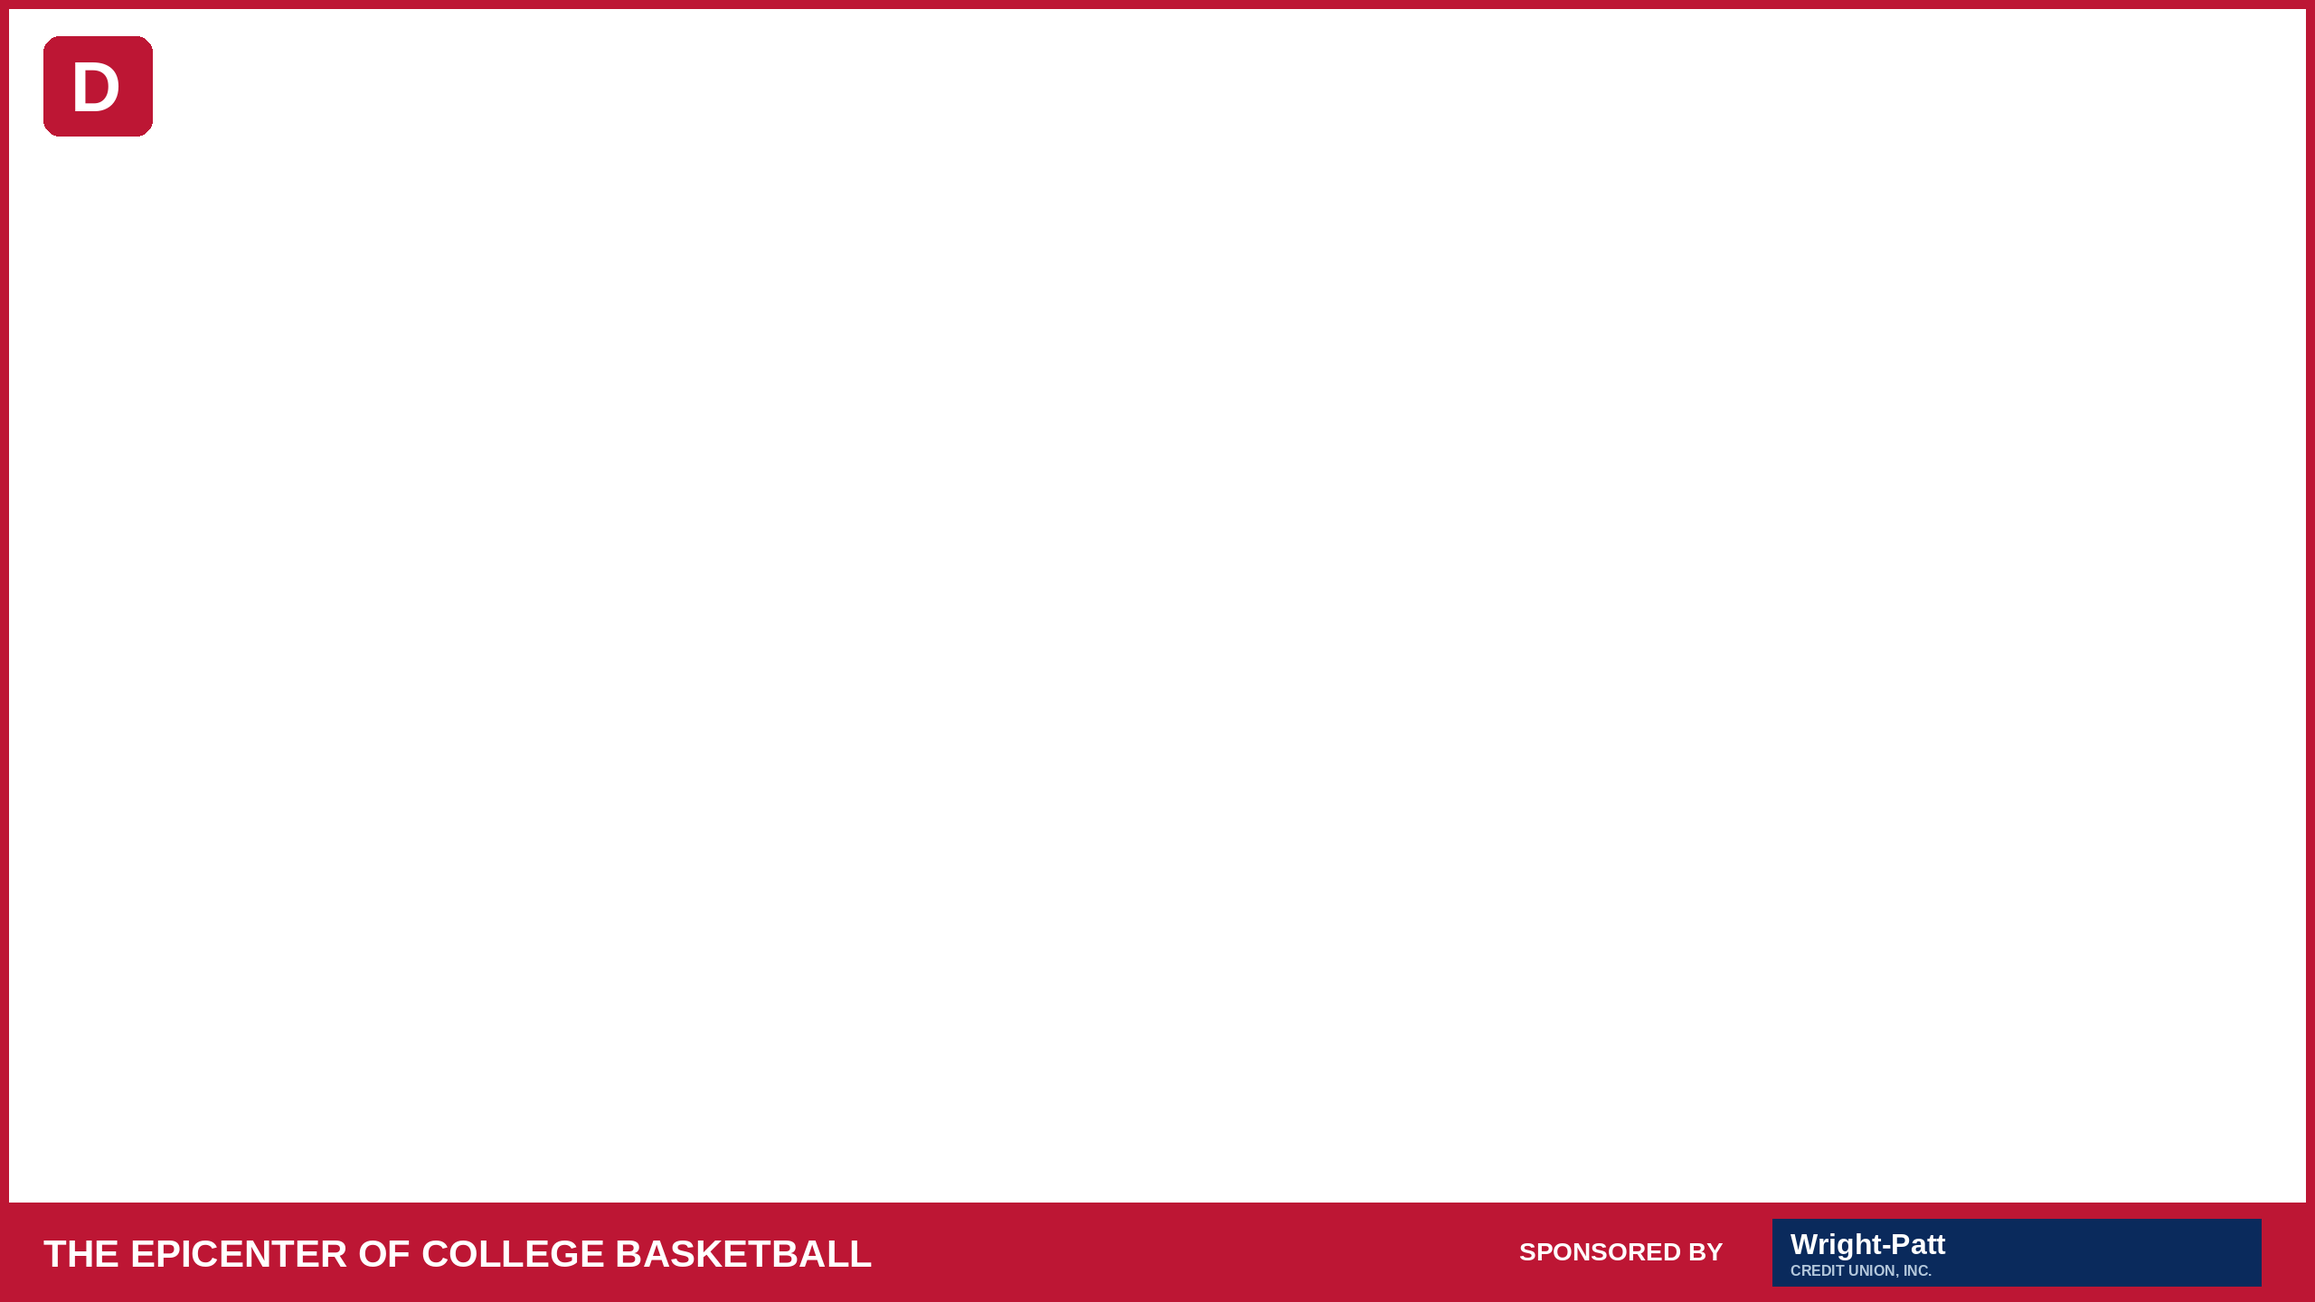
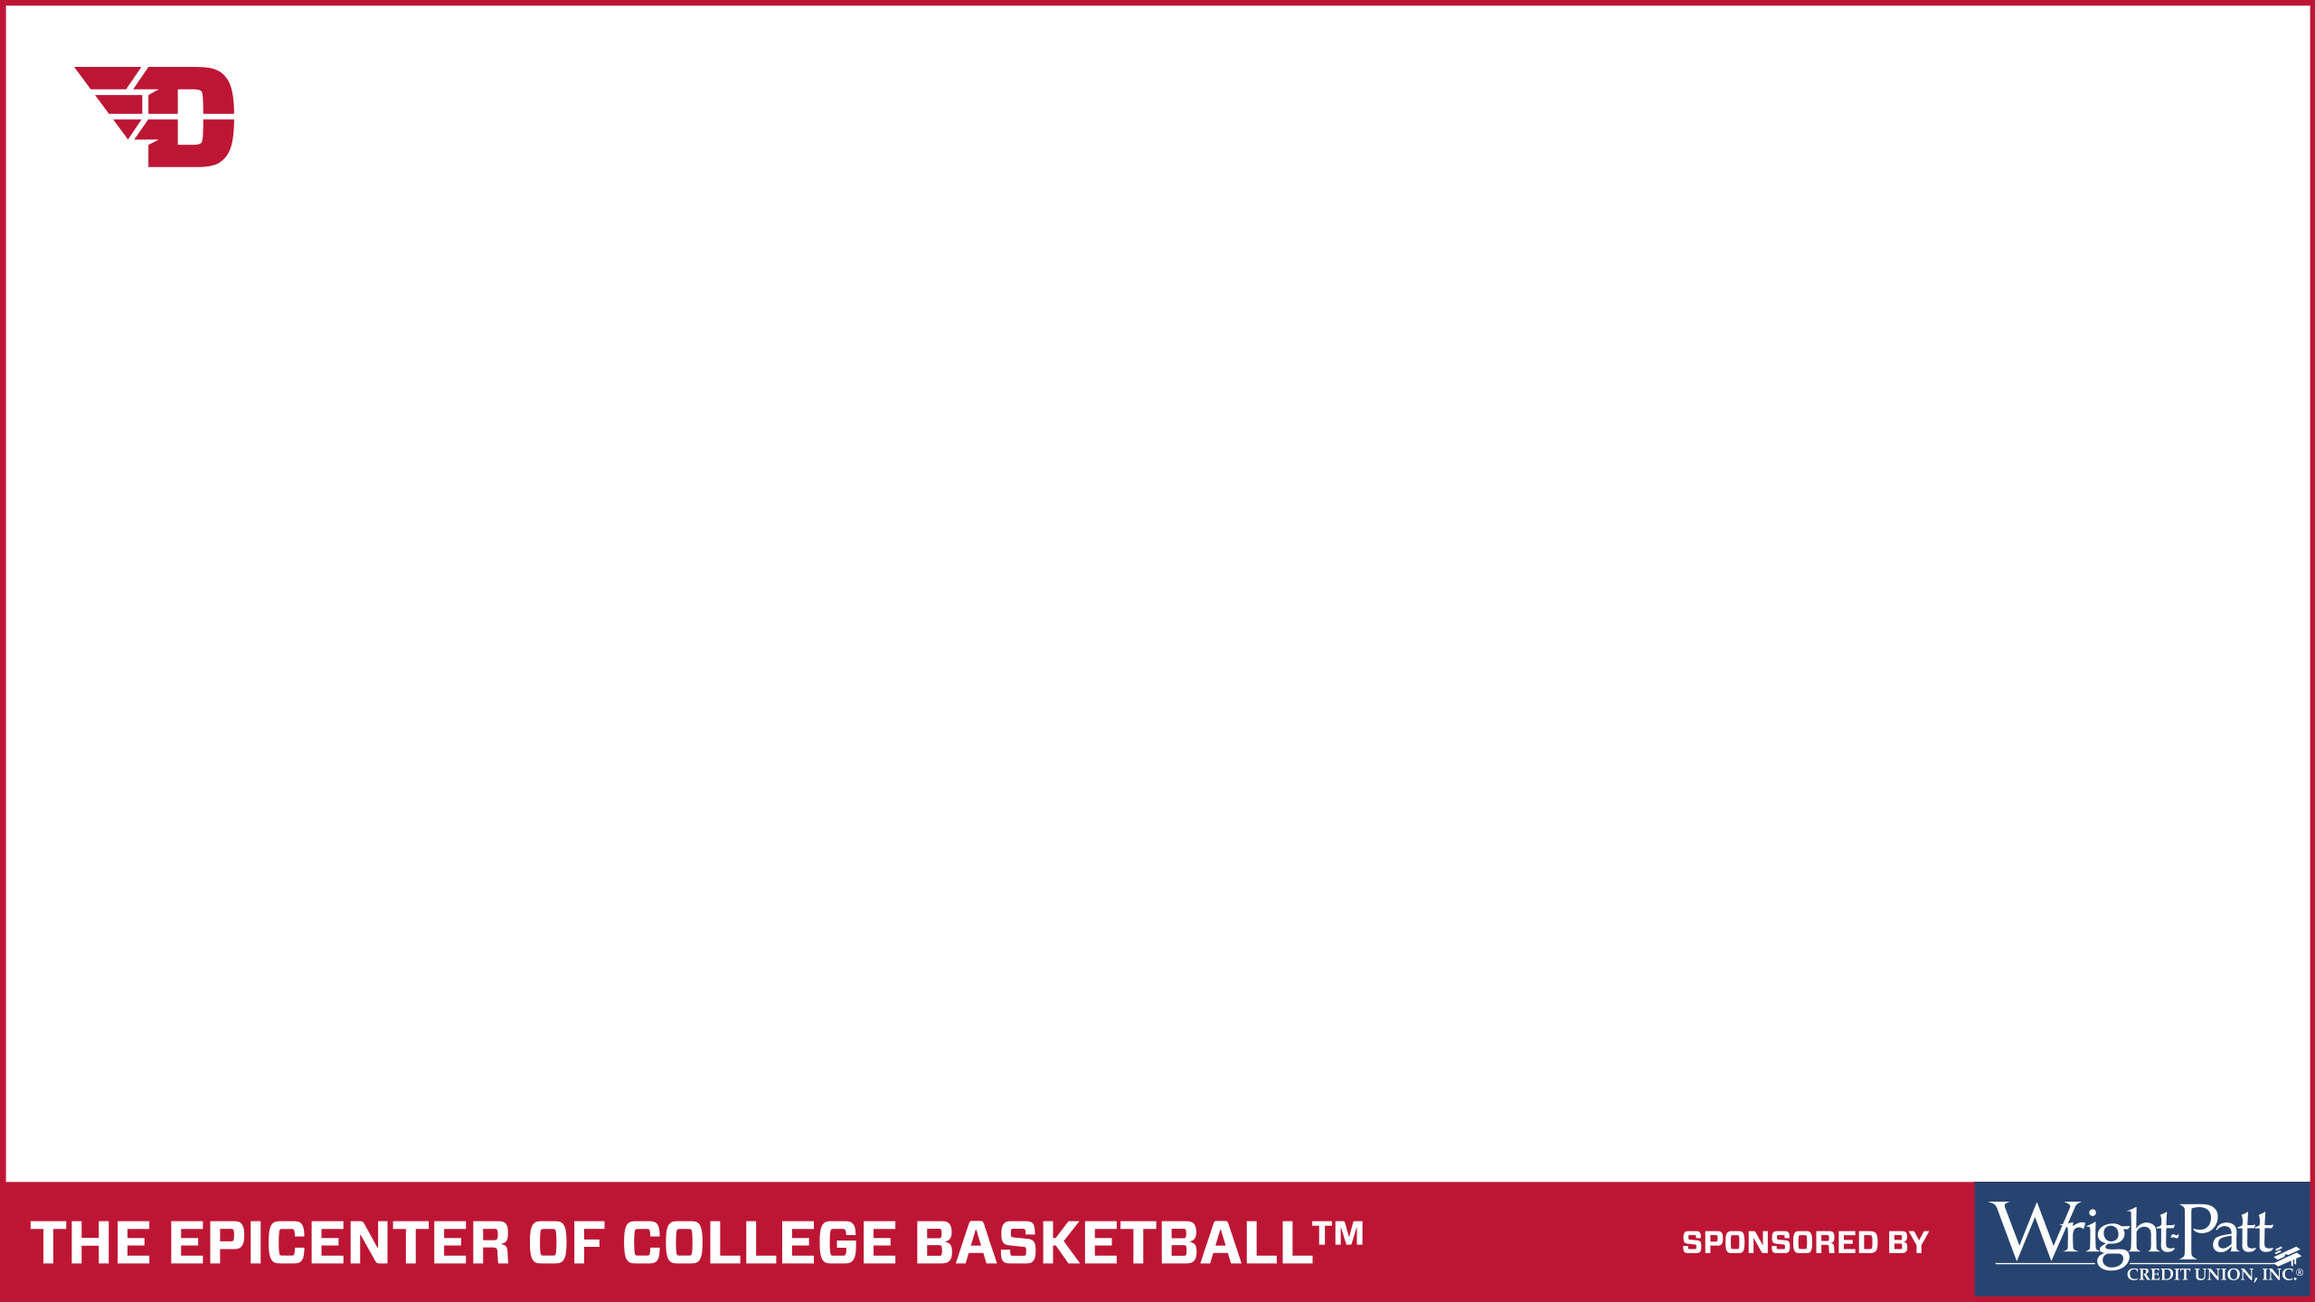
Match the preview screen to the Figma approval frame
* Replace stacked Saira columns with rotated Vitesse Sans THAT’S and MONEY in `src/ui.ts` and `src/styles.css`
* Move the photo well to 640,162 at 2560×1440 and drop the frame drop-shadow
* Swap in the Figma takeaway frame and stop `scripts/generate_assets.py` from overwriting it
* Rebuild the approval panel and Start Over on the pick-panel pattern, and keep the fire sequence off this screen

Changed region(s): [[0.0, 0.9062, 1.0, 1.0], [0.0, 0.0, 0.125, 0.1562], [0.9688, 0.0, 1.0, 0.0312]]

diff --git a/src/styles.css b/src/styles.css
@@ -499,7 +499,8 @@ button, video { font-family: inherit; }
 
 .pick-swap,
 .pick-go,
-.pick-back {
+.pick-back,
+.preview-send {
   border-radius: 999px;
   font-family: "Vitesse Sans", Arial, "Liberation Sans", sans-serif;
   font-weight: 700;
@@ -511,7 +512,8 @@ button, video { font-family: inherit; }
 }
 
 .pick-swap,
-.pick-go {
+.pick-go,
+.preview-send {
   width: 300px;
   height: 100px;
   padding: 10px;
@@ -536,6 +538,38 @@ button, video { font-family: inherit; }
   background: #fff;
   color: #00acec;
   cursor: pointer;
+}
+
+.preview-panel {
+  left: 1385px;
+  top: 1788px;
+  box-shadow: none;
+}
+
+.preview-send {
+  border: 0;
+  background: #fff;
+  color: #002554;
+}
+
+.preview-try:active:not(:disabled),
+.preview-send:active:not(:disabled) {
+  background: #000;
+  border-color: #000;
+  color: #fff;
+}
+
+.preview-try:disabled,
+.preview-send:disabled {
+  background: rgba(0, 0, 0, 0.1);
+  border-color: transparent;
+  color: rgba(255, 255, 255, 0.05);
+  cursor: default;
+}
+
+.preview .pick-back {
+  left: 40px;
+  top: 2080px;
 }
 
 .pick-back {
@@ -756,39 +790,59 @@ button, video { font-family: inherit; }
   cursor: pointer;
 }
 
-.vert {
+.side-word {
   position: absolute;
-  top: 150px;
   z-index: 4;
+  margin: 0;
   display: flex;
-  flex-direction: column;
-  font-family: "Saira Extra Condensed", sans-serif;
-  font-weight: 700;
-  font-size: 248px;
-  line-height: 0.78;
-  letter-spacing: -1px;
+  align-items: center;
+  justify-content: center;
+  overflow: visible;
+  pointer-events: none;
 }
 
-.vert-left { left: 36px; }
-.vert-right { right: 20px; align-items: flex-end; }
+.side-word span {
+  font-family: "Vitesse Sans", Arial, "Liberation Sans", sans-serif;
+  font-weight: 700;
+  font-synthesis: none;
+  line-height: 1.03;
+  letter-spacing: 0;
+  text-transform: uppercase;
+  color: #fff;
+  white-space: nowrap;
+  text-box: trim-both cap alphabetic;
+}
+
+/* Cap box of 570px Vitesse Sans Bold. Rotated -90deg so it reads bottom to top. */
+.side-thats {
+  left: 126.505737px;
+  top: -54px;
+  width: 399.00009px;
+  height: 2063px;
+}
+
+.side-thats span {
+  font-size: 570px;
+  transform: rotate(-90deg);
+}
+
+/* Cap box of 474px Vitesse Sans Bold. Rotated 90deg so it reads top to bottom. */
+.side-money {
+  left: 3366.99992px;
+  top: -53.99998px;
+  width: 332.00008px;
+  height: 1758.00001px;
+}
+
+.side-money span {
+  font-size: 474px;
+  transform: rotate(90deg);
+}
 
 .frame-overlay {
   position: absolute;
   z-index: 4;
   pointer-events: none;
-  filter: drop-shadow(0 30px 40px rgba(0, 0, 0, 0.35));
-}
-
-.fire-layer {
-  position: absolute;
-  left: 470px;
-  top: 130px;
-  width: 2900px;
-  height: 200px;
-  object-fit: cover;
-  opacity: 0;
-  pointer-events: none;
-  z-index: 2;
 }
 
 .thanks-copy {

diff --git a/src/ui.ts b/src/ui.ts
@@ -15,7 +15,8 @@ import type { AppConfig, Athlete, PickGridConfig, PickHeadshotConfig, RosterFile
 export const STAGE_W = 3840;
 export const STAGE_H = 2160;
 
-export const PHOTO_RECT = { x: 470, y: 130, w: 2900, h: 1631 };
+/** Stage-space photo well. Matches the 2560×1440 takeaway JPEG 1:1. */
+export const PHOTO_RECT = { x: 640, y: 162, w: 2560, h: 1440 };
 
 export interface ViewModel {
   config: AppConfig;
@@ -402,28 +403,22 @@ function plusMinus(view: ViewModel): string {
 }
 
 function renderPreview(view: ViewModel): string {
-  const fire = view.assetUrl(view.config.assets.fireVideo);
   const rect = PHOTO_RECT;
-  const fireVideo = fire
-    ? `<video class="fire-layer" src="${escapeHtml(fire)}" autoplay muted loop playsinline></video>`
-    : "";
+  const logo = view.assetUrl("branding/dayton-d-logo-white.svg");
   return `<section class="screen preview">
     ${background(view, false)}
-    <div class="vert vert-left" aria-hidden="true">${letters("THAT'S")}</div>
-    <div class="vert vert-right" aria-hidden="true">${letters("MONEY")}</div>
+    <p class="side-word side-thats" aria-hidden="true"><span>that\u2019s</span></p>
+    <p class="side-word side-money" aria-hidden="true"><span>money</span></p>
     <img class="frame-overlay" alt="" src="${escapeHtml(view.assetUrl(view.config.assets.takeawayFrame))}" style="left:${rect.x}px;top:${rect.y}px;width:${rect.w}px;height:${rect.h}px" />
-    ${fireVideo}
-    <div class="dock dock-preview">
-      ${mark("white")}
-      <button class="pill pill-ghost" data-action="try-again">TRY AGAIN</button>
-      <button class="pill pill-send" data-action="send">SEND!</button>
+    <div class="pick-panel preview-panel">
+      <img class="pick-logo" alt="" src="${escapeHtml(logo)}" width="160" height="100" />
+      <div class="pick-panel-actions">
+        <button class="pick-swap preview-try" type="button" data-action="try-again">TRY AGAIN</button>
+        <button class="preview-send" type="button" data-action="send">SEND!</button>
+      </div>
     </div>
-    <button class="corner-btn" data-action="start-over">START OVER</button>
+    <button class="pick-back" type="button" data-action="start-over">START OVER</button>
   </section>`;
-}
-
-function letters(word: string): string {
-  return word.split("").map((letter) => `<span>${escapeHtml(letter)}</span>`).join("");
 }
 
 function renderThanks(view: ViewModel): string {

diff --git a/src/logic.test.ts b/src/logic.test.ts
@@ -482,8 +482,26 @@ describe("background plate", () => {
       expect(html, screen).not.toContain("bg-video");
     }
     expect(chrome("attract")).toContain("object-position:center 69.375%");
-    expect(chrome("preview")).toContain("frame-overlay");
-    expect(chrome("preview")).toContain("frames/takeaway_v1.png");
+    expect(PHOTO_RECT).toEqual({ x: 640, y: 162, w: 2560, h: 1440 });
+    const preview = chrome("preview");
+    expect(preview).toContain("frame-overlay");
+    expect(preview).toContain("frames/takeaway_v1.png");
+    expect(preview).toContain("side-thats");
+    expect(preview).toContain("that\u2019s");
+    expect(preview).toContain("side-money");
+    expect(preview).toContain(">money<");
+    expect(preview).toContain("preview-panel");
+    expect(preview).toContain("dayton-d-logo-white.svg");
+    expect(preview).toContain("preview-try");
+    expect(preview).toContain("preview-send");
+    expect(preview).toContain("TRY AGAIN");
+    expect(preview).toContain("SEND!");
+    expect(preview).toContain("pick-back");
+    expect(preview).toContain("START OVER");
+    expect(preview).not.toContain("fire-layer");
+    expect(preview).not.toContain("dock-preview");
+    expect(preview).not.toContain("Look Good");
+    expect(preview).not.toContain("vert-left");
     for (const screen of ["countdown", "flash", "adjust"] as const) {
       expect(chrome(screen), screen).not.toContain("bg-photo");
     }

diff --git a/scripts/generate_assets.py b/scripts/generate_assets.py
@@ -540,32 +540,11 @@ def attract_and_fire() -> None:
 
 
 def takeaway_frame(path: Path) -> None:
-    w, h = 2560, 1440
-    img = Image.new("RGBA", (w, h), (0, 0, 0, 0))
-    draw = ImageDraw.Draw(img)
-    # red hairline border
-    for i in range(10):
-        draw.rectangle([i, i, w - 1 - i, h - 1 - i], outline=RED)
-    # placeholder D mark, original geometric letter, not the Flyers logo
-    draw.rounded_rectangle([48, 40, 168, 150], radius=18, fill=RED)
-    fnt = font(78, bold=True)
-    draw.text((78, 52), "D", font=fnt, fill=WHITE)
-    # bottom banner
-    banner_h = 110
-    y0 = h - banner_h
-    draw.rectangle([0, y0, w, h], fill=RED)
-    title = font(42, bold=True)
-    draw.text((48, y0 + 32), "THE EPICENTER OF COLLEGE BASKETBALL", font=title, fill=WHITE)
-    small = font(28, bold=True)
-    draw.text((1680, y0 + 38), "SPONSORED BY", font=small, fill=WHITE)
-    # text sponsor lockup, not the credit-union logo artwork
-    serif = font(32, bold=True)
-    draw.rectangle([1960, y0 + 18, 2500, h - 18], fill=(10, 42, 92, 255))
-    draw.text((1980, y0 + 28), "Wright-Patt", font=serif, fill=WHITE)
-    tiny = font(16, bold=True)
-    draw.text((1980, y0 + 66), "CREDIT UNION, INC.", font=tiny, fill=(180, 200, 220, 255))
-    path.parent.mkdir(parents=True, exist_ok=True)
-    img.save(path)
+    """Leave the checked-in Figma frame alone (node 63:1635, 2560×1440)."""
+    if path.is_file():
+        print(f"keeping Figma takeaway frame {path}")
+        return
+    print(f"takeaway frame missing at {path}; not generating a placeholder")
 
 
 def write_qr(path: Path) -> None:

diff --git a/README.md b/README.md
@@ -104,19 +104,19 @@ Everything the screens read lives under `assets/`. A copy in the custom or machi
 | `athletes/<id>_left.webm` | Optional VP9 with alpha. Used when the mp4 fails, or when the debug overlay prefers WebM |
 | `branding/background.jpg` | Static plate behind attract, pick, preview, and thank-you. Cover-fit. A 16:9 file fills the stage. A taller file is centered and shifted up 31px, matching the Figma crop of the 3840×2320 fill. Countdown and tap-to-adjust keep the live camera instead |
 | `branding/dayton-d-logo-red.svg` | Red D on the attract register card |
-| `branding/dayton-d-logo-white.svg` | White D on the pick-screen panel |
+| `branding/dayton-d-logo-white.svg` | White D on the pick-screen panel and the preview approval panel |
 | `branding/qr.png` | Registration QR with the `QRCO.DE/FLYERPOSE` caption baked in, drawn at 216.43×268.8 |
 | `fonts/Vitesse-Bold.woff2`, `.woff`, `.otf`, or `.ttf` | Optional machine override for Vitesse Bold. The build already embeds `src/fonts/Vitesse-Bold.otf` |
 | `attract/loop.mp4` | Legacy generated picture of the old diagonal screen. The app does not play this path. Any other `assets.attractVideo` path still plays only on the attract screen, above the plate |
-| `frames/takeaway_v1.png` | Transparent PNG composited over the 2560×1440 JPEG |
-| `fx/fire.mp4` | Hidden preview layer |
+| `frames/takeaway_v1.png` | Figma takeaway frame (2560×1440). Transparent photo window. Drawn on the preview and over the JPEG |
+| `fx/fire.mp4` | Still bundled. The approved preview frame does not show it |
 | `placeholders/guest.png` | Stand-in when the photo camera is missing. Skipped entirely when `capture.guestPlaceholder` is false |
 
 `roster.json` `clipMeta` records `layout` (`stacked-alpha` or `vp9-alpha`) and the color-frame size. It can be omitted: a `.webm` is treated as VP9-with-alpha and any other clip as stacked-alpha, and the quad uses `videoWidth` / `videoHeight` (half the height for a stacked file). Clips in this repo are 360×640, 12 fps, 4 seconds, and are shared across the placeholder roster. Real clips should be one left and one right take per athlete, encoded at the crop size, with the last frame as the pose you want held.
 
 Still images the compositor or the JPEG touches (the takeaway frame, posters, the guest stand-in, headshots) are fetched into memory before upload. `http://asset.localhost` is a different origin from the Tauri page, and an `<img>` pointed at it taints WebGL even when the file displays on screen.
 
-Regenerate the placeholders with `python3 scripts/generate_assets.py` (Pillow and ffmpeg). The script draws original silhouettes. It does not copy Dayton, NCAA, or sponsor artwork, and it does not rewrite `branding/background.jpg`.
+Regenerate the placeholders with `python3 scripts/generate_assets.py` (Pillow and ffmpeg). The script draws original silhouettes. It does not copy Dayton, NCAA, or sponsor artwork, and it does not rewrite `branding/background.jpg` or `frames/takeaway_v1.png`.
 
 `branding/background.jpg` in this repo is the real 3840×2160 collage, including the Wright-Patt strip, so builds ship it. A file at `C:\DaytonKiosk\assets\branding\background.jpg` still overrides the bundled copy. If the file is missing or fails to load, the screen falls back to solid Dayton navy `#002554` and the miss is written to the log.
 
@@ -137,7 +137,7 @@ The register card body uses [Work Sans SemiBold](https://fonts.google.com/specim
 
 `attract.rotation` cycles every roster still (men, women, and mascots; a `still` path wins over `headshot`, and a repeated id is shown once). It holds for `holdMs` (6000), slides fully off the left in `outMs` (700, ease-in), swaps the decoded next cutout off screen, then slides in over `inMs` (900, ease-out). `offsetX` (100) shifts only the resting center to the right, in stage pixels, so the figure covers less of the title. The exit transform does not include that shift. The loop pauses when the screen is not attract. `keyWhite` defaults to false because the real cutouts are already transparent. Set it true only for opaque stills; border-connected white is removed and an existing alpha channel is left alone. The sponsored-by block and the rotate button stay hidden. The 200×200 camera slot stays white when the side camera is missing.
 
-The red “D” and the frame artwork are original placeholders. The Wright-Patt strip is not drawn in the chrome; it is baked into `branding/background.jpg`. Drop licensed logo files in when you have them, and point the frame at the real `takeaway_v1.png`. Do not commit other trademarked logos or athlete photographs to this repository while it is public.
+The athlete silhouettes and headshots are original placeholders. `frames/takeaway_v1.png` is the Figma frame artwork, with a transparent photo window, and the generator does not overwrite it. The Wright-Patt strip on the stage plate is baked into `branding/background.jpg`. Do not commit other trademarked logos or athlete photographs to this repository while it is public.
 
 ## Uploader contract
 
@@ -247,11 +247,11 @@ The compositor draws at 2560×1440. DOM chrome is laid out on a 3840×2160 stage
 
 On the countdown, an athlete stays hidden until that clip fires `playing` and a new frame is presented (`requestVideoFrameCallback`, or `currentTime > 0` when the callback is missing). The paused first frame, the poster, and the PNG still are not drawn during the walk-in, so a clip that starts inside the frame does not sit frozen on screen. Once a frame has been presented, the clip stays up through the last-frame hold. Adjust, the flash, and preview still show that held pose, and a clip that never started falls back to its still or poster there so the photo is not missing an athlete.
 
-The preview screen scales that full 2560×1440 buffer into the photo well. The takeaway frame, including its tagline bar, is drawn over the same rectangle on screen and in the JPEG, so the preview matches the file that is uploaded. The dock and the side type sit outside the well. The screen background behind them is the static plate.
+The preview screen scales that full 2560×1440 buffer into the photo well at stage (640, 162). The takeaway frame, including its tagline bar, is drawn over the same rectangle on screen and in the JPEG, with no drop shadow, so the preview matches the file that is uploaded. THAT’S and MONEY are single-line Vitesse Sans Bold, rotated beside the well. The approval panel and Start Over sit on the plate below it. The fire sequence is not drawn on this screen.
 
 ## Known gaps
 
-- Placeholder roster, clips, headshots, and frame. The background plate is the real collage. No Vitesse. The attract loop is off unless `assets.attractVideo` is set.
+- Placeholder roster, clips, and headshots. The takeaway frame is the Figma artwork. The background plate is the real collage. No Vitesse. The attract loop is off unless `assets.attractVideo` is set.
 - `list_cameras` serial and port lookup is Windows-only (Media Foundation + CfgMgr32). Other platforms return an empty list and the web layer falls back to the first webcam.
 - Friendly-name renaming of the two Brios is still a manual setup step. The app cannot hash a USB serial into a WebView `deviceId`.
 - The kiosk posts to the uploader and does not retry. Queueing and delivery live in that service.
